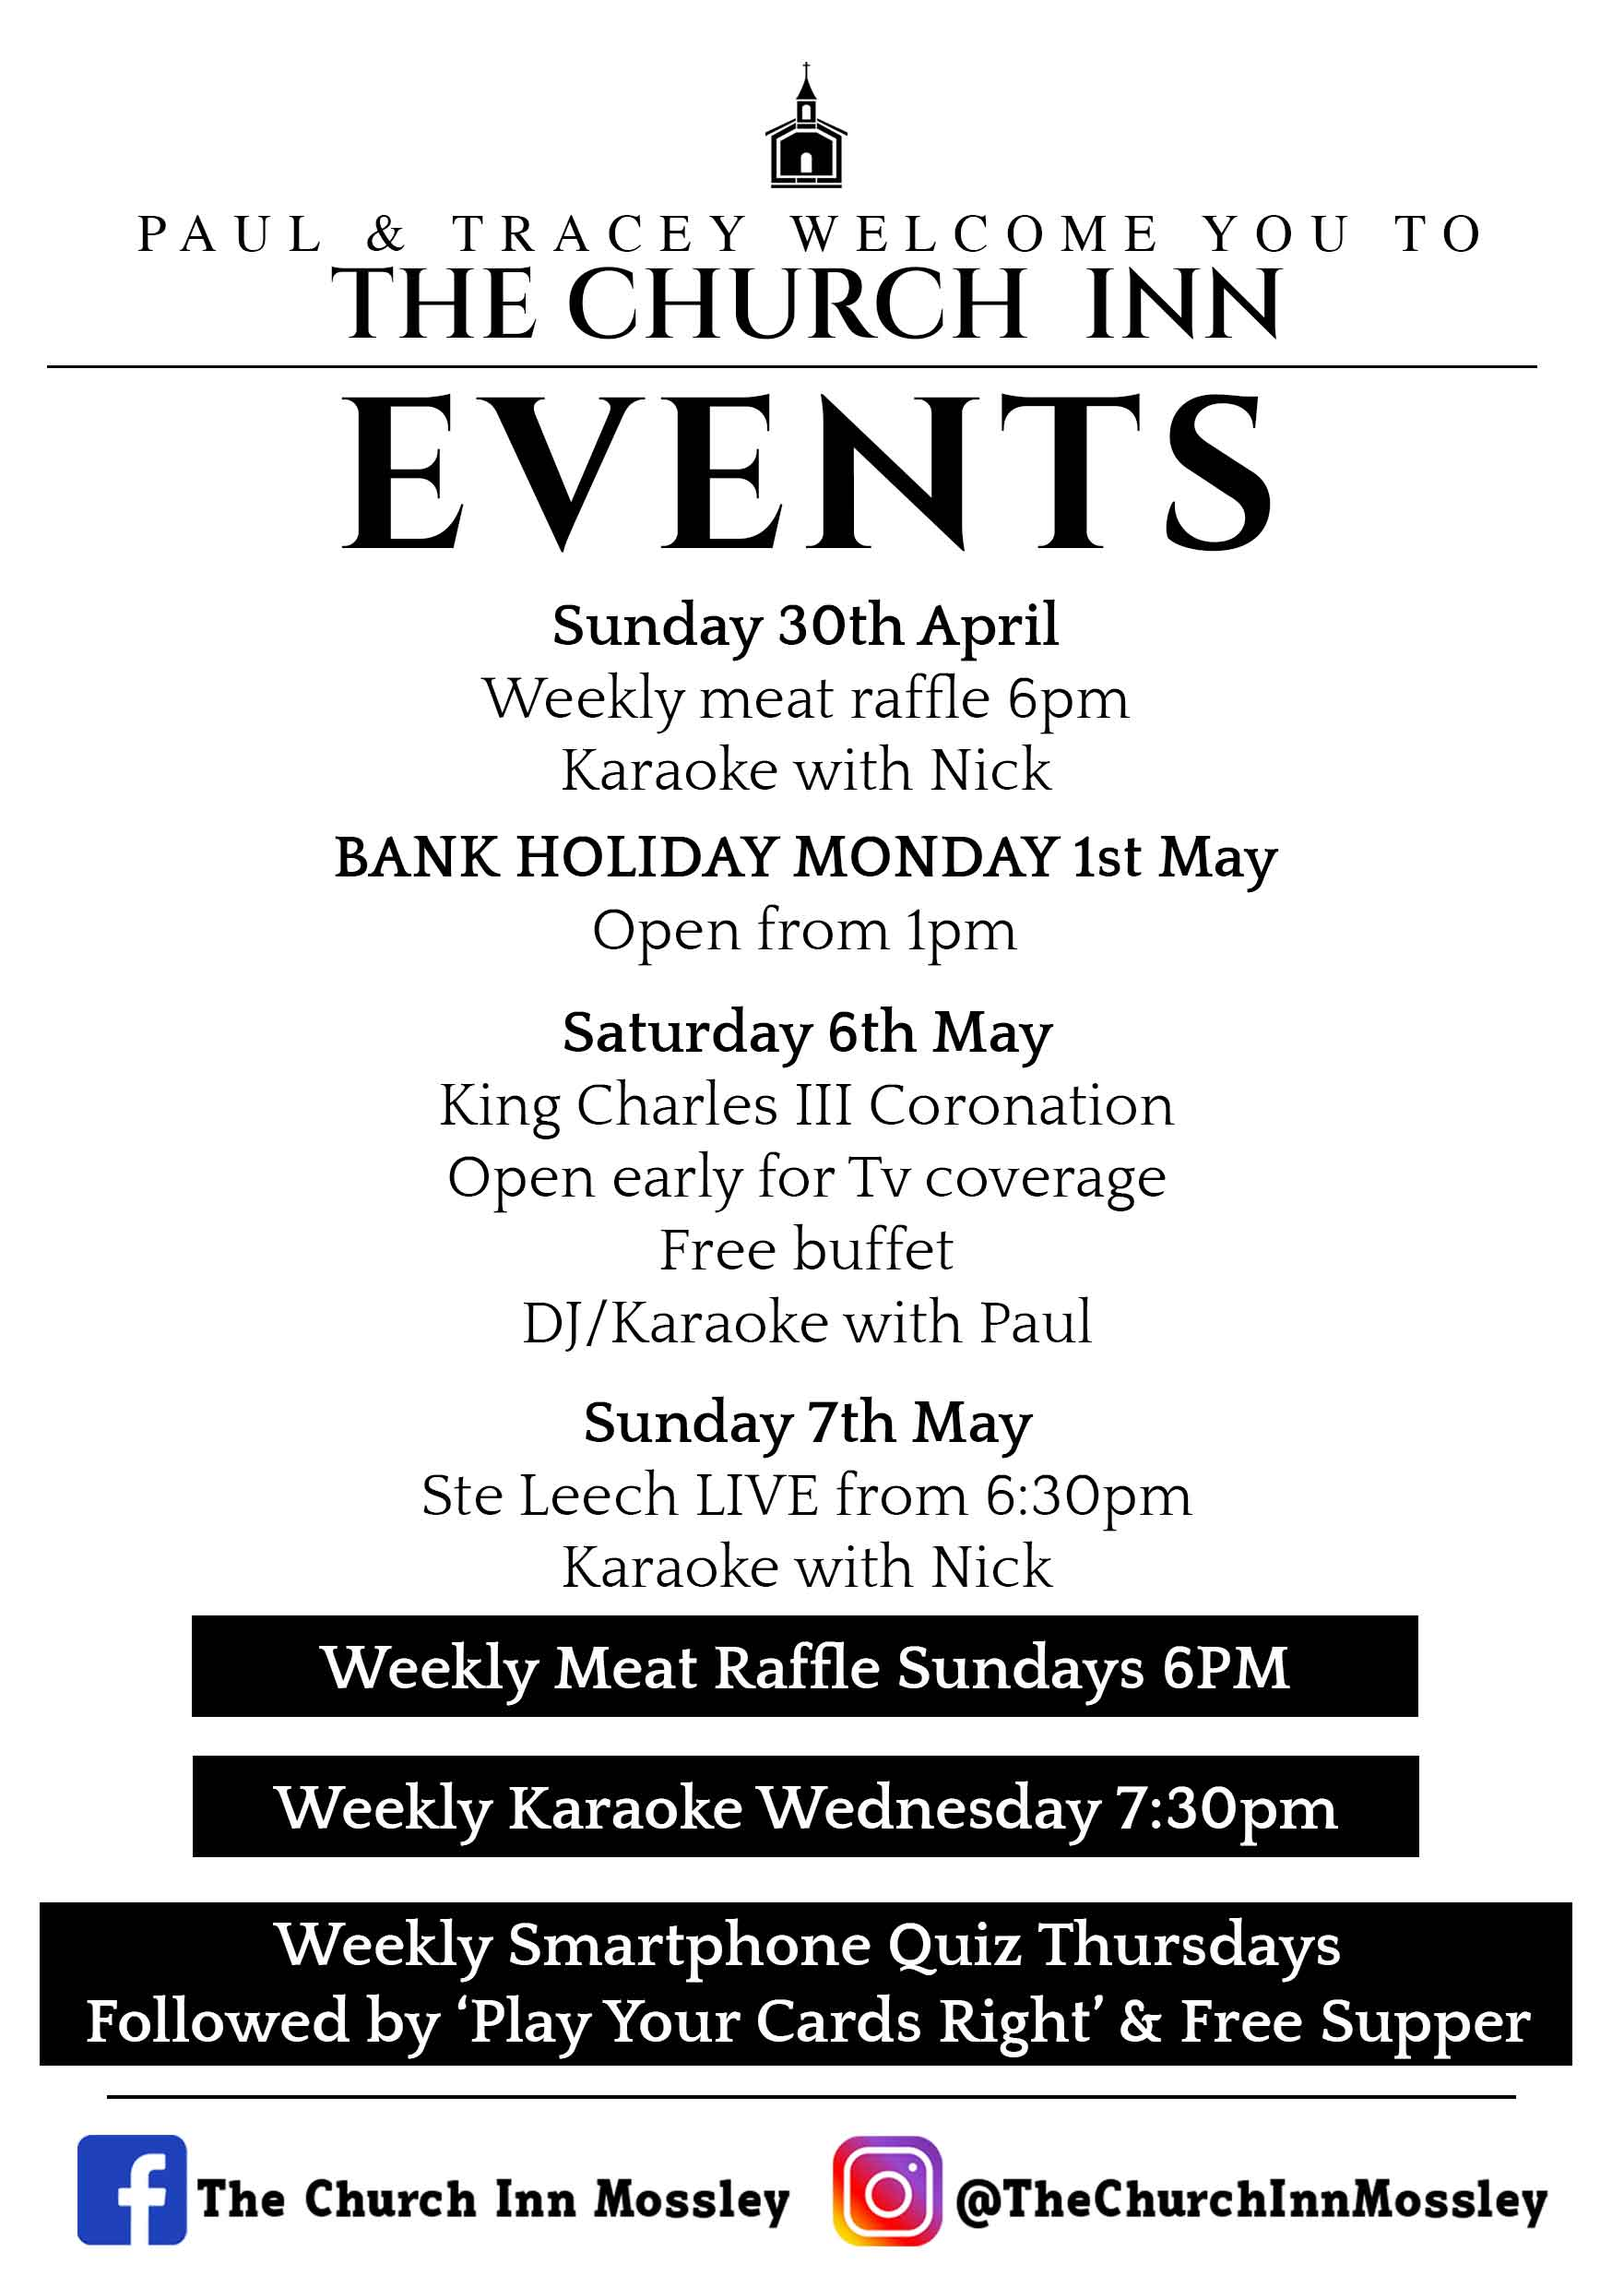
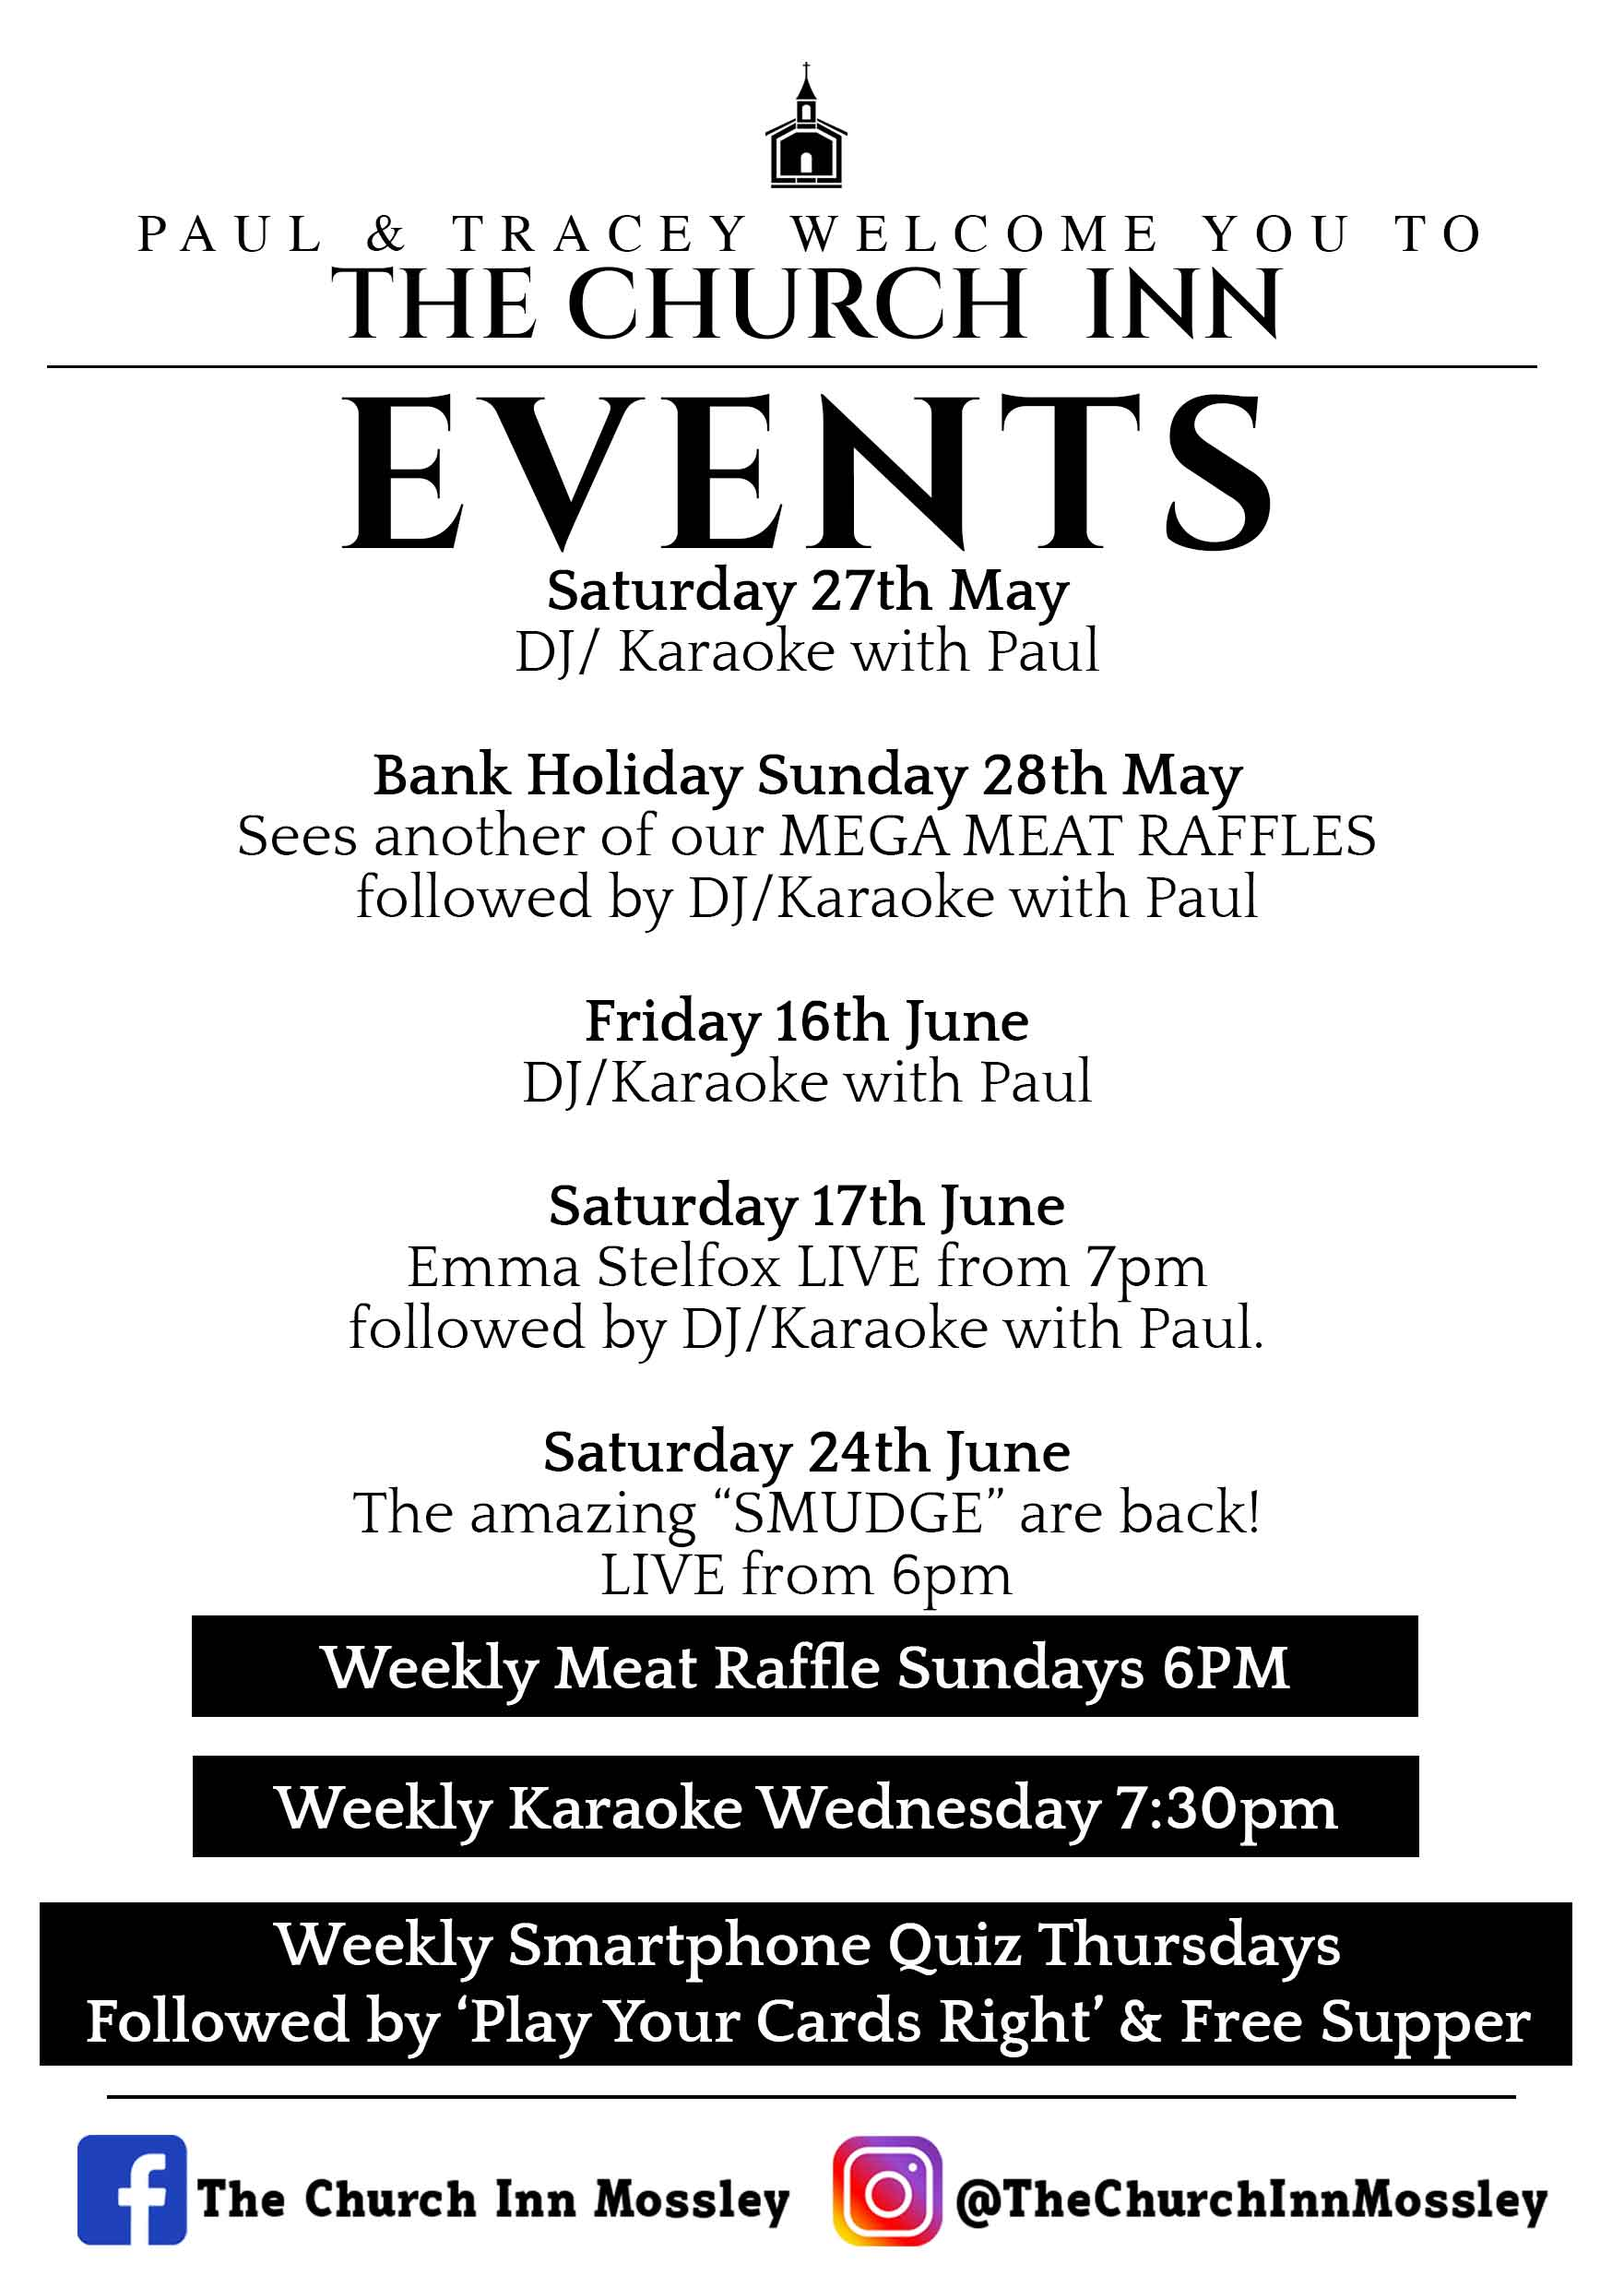
May updates #2

Changed region(s): [[0.1545, 0.2484, 0.865, 0.7141]]

diff --git a/index.html b/index.html
@@ -22,7 +22,7 @@
 <body>
     <!-- TOP BAR -->
     <aside class="top-bar">
-        <p class="top-bar-text">Saturday 6th May - King Charles III Coronation!</p>
+        <p class="top-bar-text">Saturday 24th June - The Amazin 'SMUDGE' are back! LIVE from 6pm! 🎸</p>
     </aside>
 
 
@@ -81,8 +81,8 @@
                     <img class="serving-logo" src="/imgs/serving-imgs/millstone.png" alt="Madri Logo">
                     <img class="serving-logo" src="/imgs/serving-imgs/boltmaker.png" alt="Madri Logo">
                     <img class="serving-logo" src="/imgs/serving-imgs/landlord.png" alt="Madri Logo">
-                    <img class="serving-logo" src="/imgs/serving-imgs/inchs.png" alt="Madri Logo">
-                    <img class="serving-logo" src="/imgs/serving-imgs/carling.png" alt="Madri Logo">
+                    <img class="serving-logo" src="/imgs/serving-imgs/thatchers-haze.png" alt="Madri Logo">
+                    <img class="serving-logo" src="/imgs/serving-imgs/cruzcampo.png" alt="Madri Logo">
                 </div>
                 <a href="/pages/now-serving.html" class="btn">See full range</a>
             </div>

diff --git a/pages/now-serving.html b/pages/now-serving.html
@@ -22,7 +22,7 @@
 <body>
   <!-- TOP BAR -->
   <aside class="top-bar">
-    <p class="top-bar-text">Saturday 6th May - King Charles III Coronation!</p>
+    <p class="top-bar-text">Saturday 24th June - The Amazin 'SMUDGE' are back! LIVE from 6pm! 🎸</p>
   </aside>
 
 
@@ -79,9 +79,9 @@
           <img class="serving-logo" src="/imgs/serving-imgs/fosters.png" alt=" Logo">
           <img class="serving-logo" src="/imgs/serving-imgs/jack-rabbit.png" alt=" Logo">
           <img class="serving-logo" src="/imgs/serving-imgs/kronenbourg.png" alt=" Logo">
-          <img class="serving-logo" src="/imgs/serving-imgs/warstiner.png " alt=" Logo">
+          <img class="serving-logo" src="/imgs/serving-imgs/thatchers-haze.png" alt=" Logo">
           <img class="serving-logo" src="/imgs/serving-imgs/guiness.png " alt=" Logo">
-          <img class="serving-logo" src="/imgs/serving-imgs/donkey-stone.png " alt=" Logo">
+          <img class="serving-logo" src="/imgs/serving-imgs/cruzcampo.png" alt=" Logo">
         </div>
       </div>
     </section>

diff --git a/pages/about-us.html b/pages/about-us.html
@@ -22,7 +22,7 @@
 <body>
   <!-- TOP BAR -->
   <aside class="top-bar">
-    <p class="top-bar-text">Saturday 6th May - King Charles III Coronation!</p>
+    <p class="top-bar-text">Saturday 24th June - The Amazin 'SMUDGE' are back! LIVE from 6pm! 🎸</p>
   </aside>
 
 

diff --git a/pages/contact.html b/pages/contact.html
@@ -22,7 +22,7 @@
 <body>
   <!-- TOP BAR -->
   <aside class="top-bar">
-    <p class="top-bar-text">Saturday 6th May - King Charles III Coronation!</p>
+    <p class="top-bar-text">Saturday 24th June - The Amazin 'SMUDGE' are back! LIVE from 6pm! 🎸</p>
   </aside>
 
 

diff --git a/pages/events.html b/pages/events.html
@@ -22,7 +22,7 @@
 <body>
   <!-- TOP BAR -->
   <aside class="top-bar">
-    <p class="top-bar-text">Saturday 6th May - King Charles III Coronation!</p>
+    <p class="top-bar-text">Saturday 24th June - The Amazin 'SMUDGE' are back! LIVE from 6pm! 🎸</p>
   </aside>
 
 

diff --git a/pages/location.html b/pages/location.html
@@ -22,7 +22,7 @@
 <body>
   <!-- TOP BAR -->
   <aside class="top-bar">
-    <p class="top-bar-text">Saturday 6th May - King Charles III Coronation!</p>
+    <p class="top-bar-text">Saturday 24th June - The Amazin 'SMUDGE' are back! LIVE from 6pm! 🎸</p>
   </aside>
 
 
